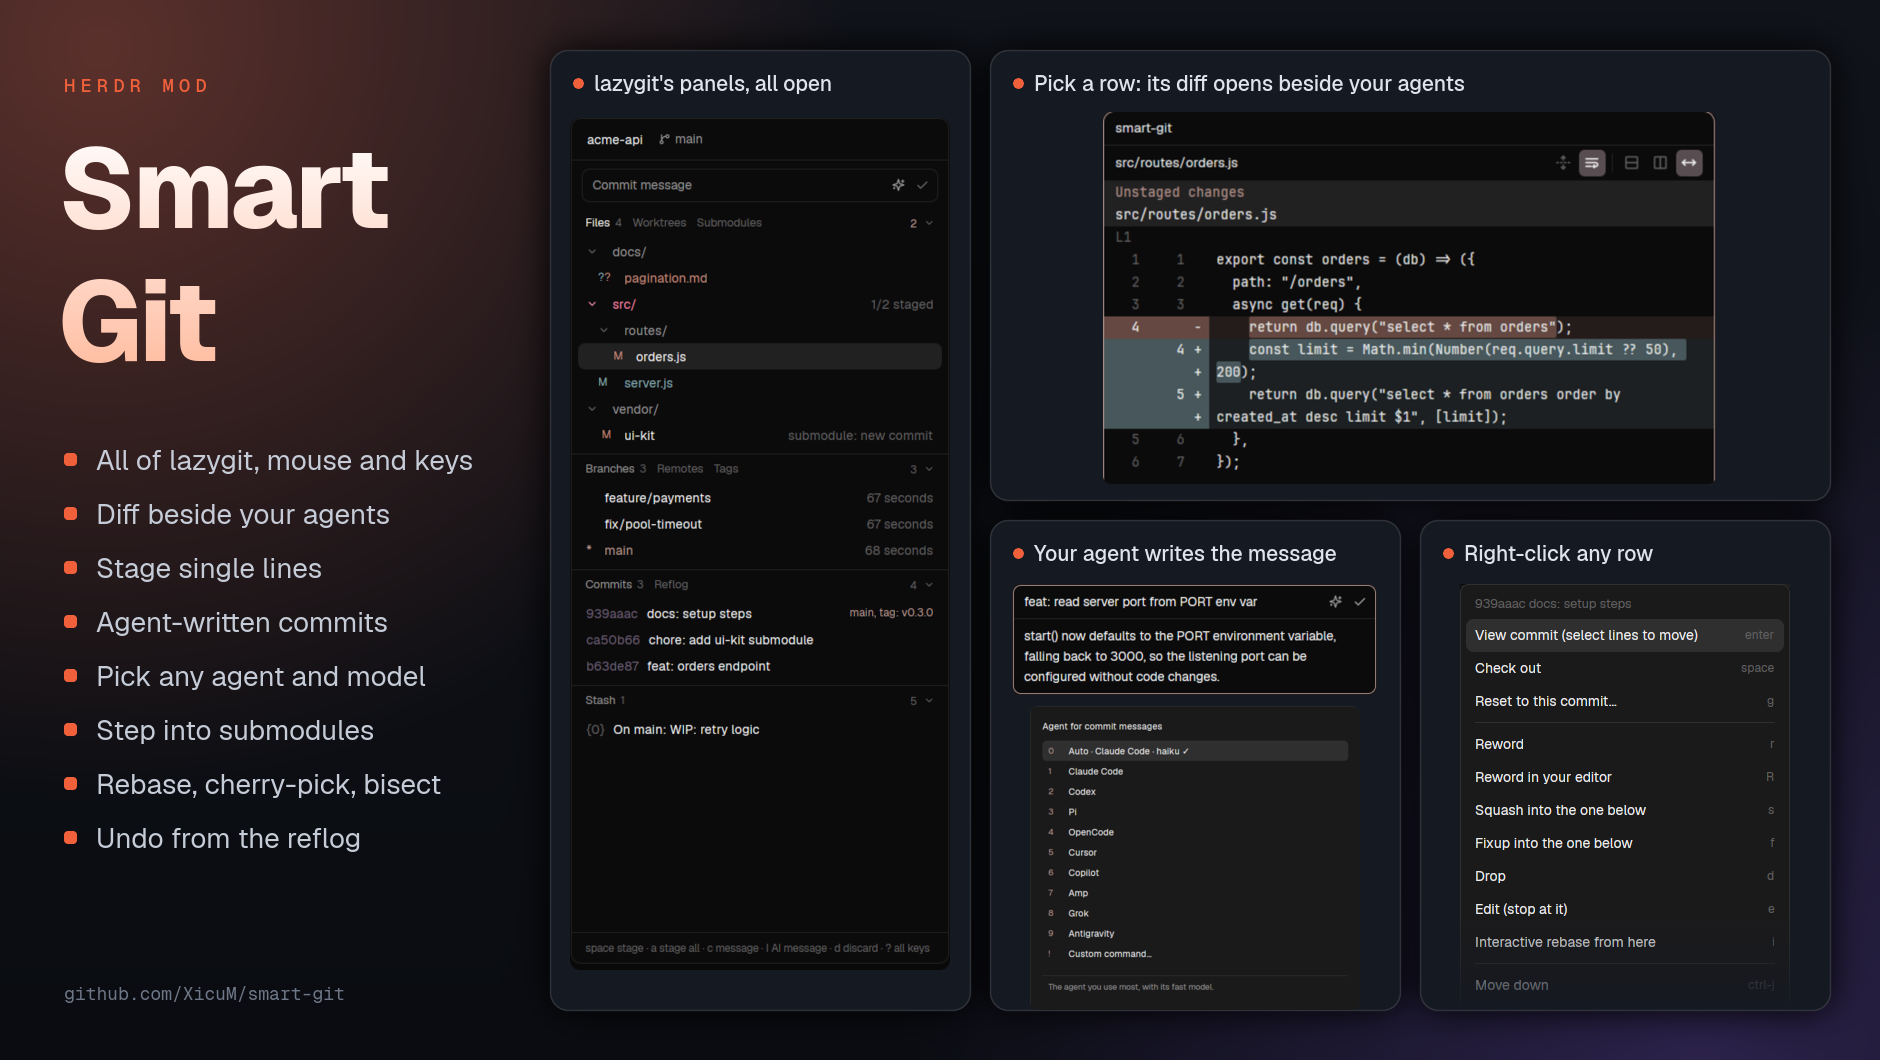
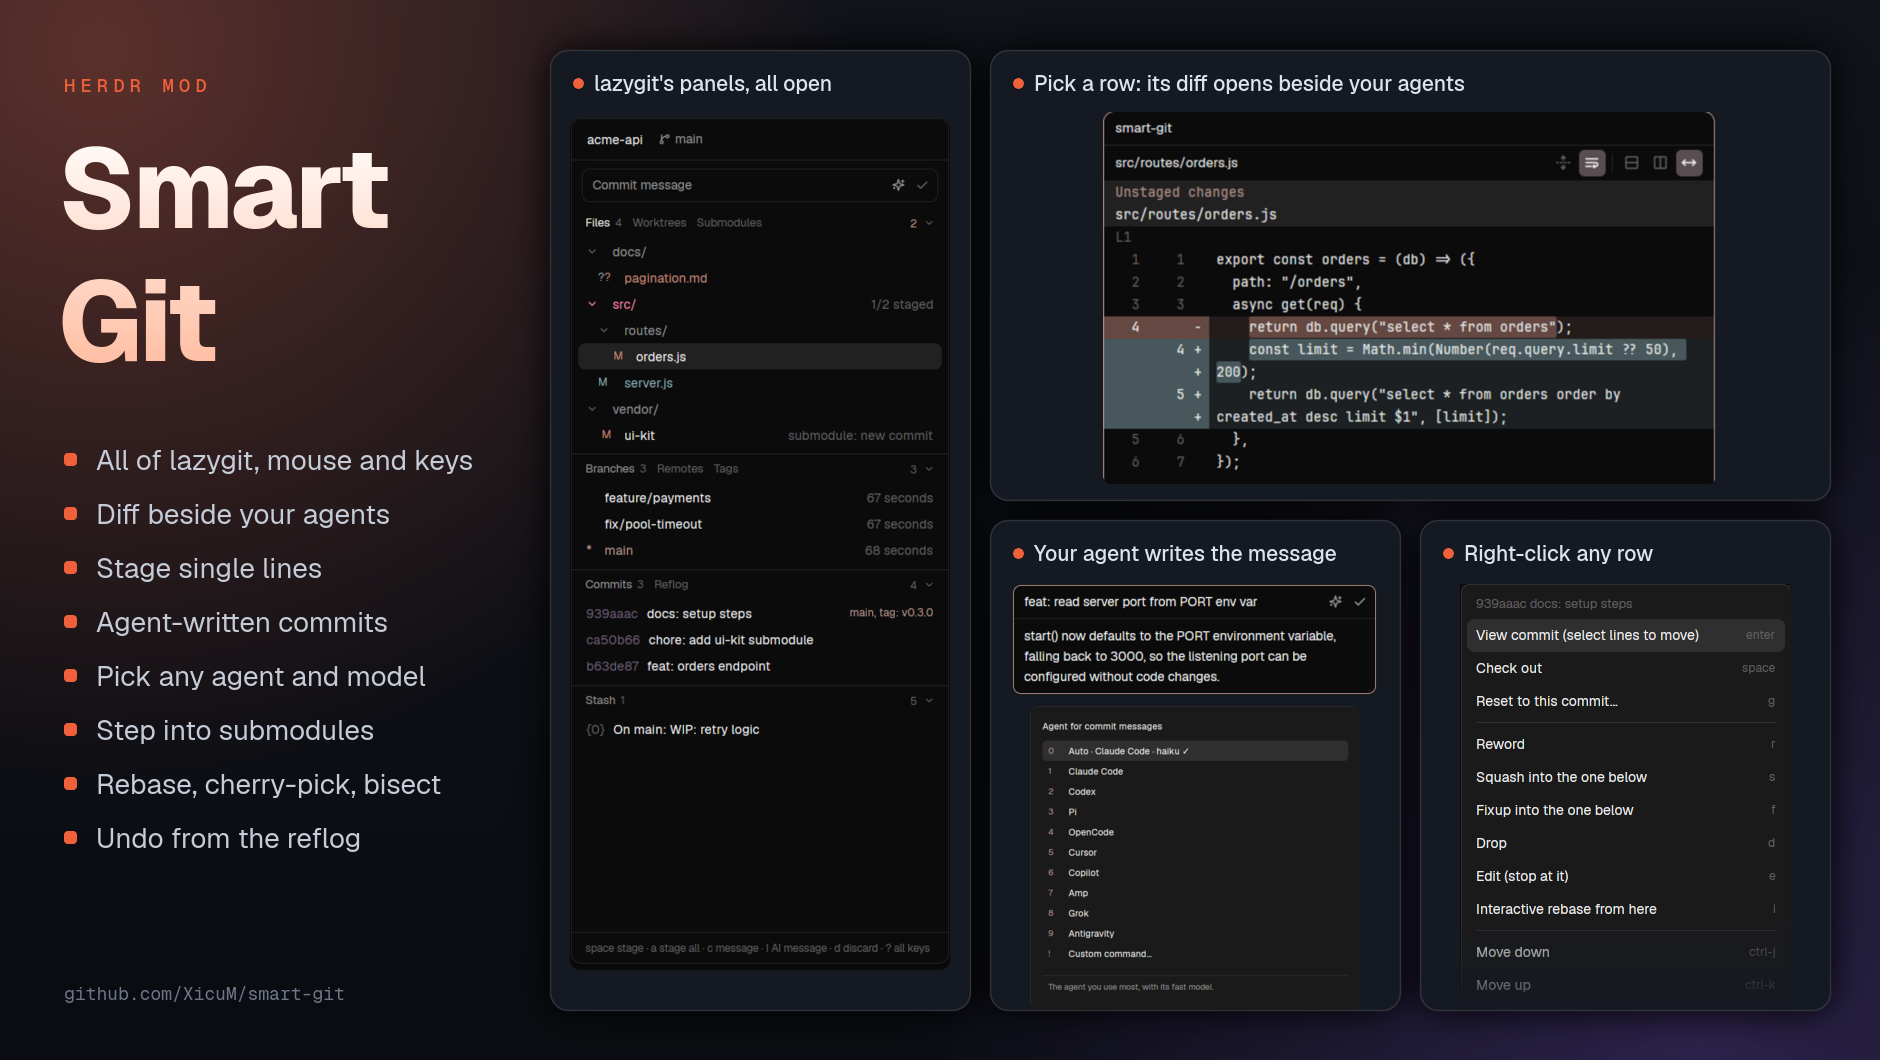
updated readme

Changed region(s): [[0.7713, 0.5604, 0.8947, 0.934]]

diff --git a/README.md b/README.md
@@ -1,6 +1,6 @@
 # Smart Git
 
-A [lazygit](https://github.com/jesseduffield/lazygit)-style git panel for Herdr. It lives in the sidebar, works with the keyboard or the mouse, and opens diffs in a pane beside your terminals.
+An upgrade for Herdr's default **Changes** sidebar. It replaces the Changes panel with a [lazygit](https://github.com/jesseduffield/lazygit)-style git panel: files, branches, commits and stash in one card, usable with the keyboard or the mouse, with diffs that open in a pane beside your terminals.
 
 ![Smart Git](preview.png)
 
@@ -14,6 +14,12 @@ A [lazygit](https://github.com/jesseduffield/lazygit)-style git panel for Herdr.
 - **Agent-written commit messages**: press ✨ (or `I`) and an agent CLI you already have installed (Claude, Codex, Copilot, Amp, ...) writes the message in your repo's style. Right-click ✨ to pick the agent and model.
 - **Submodules**: step into one, commit, and step back out, with a breadcrumb to show where you are.
 - **Follows your terminal**: switches to the repo of the focused terminal's folder, including remote spaces.
+
+## In your window
+
+Select a file, commit or branch and its diff opens beside your terminal.
+
+![Smart Git in Herdr: the diff opens beside your terminal](screenshot.png)
 
 ## Keys
 
